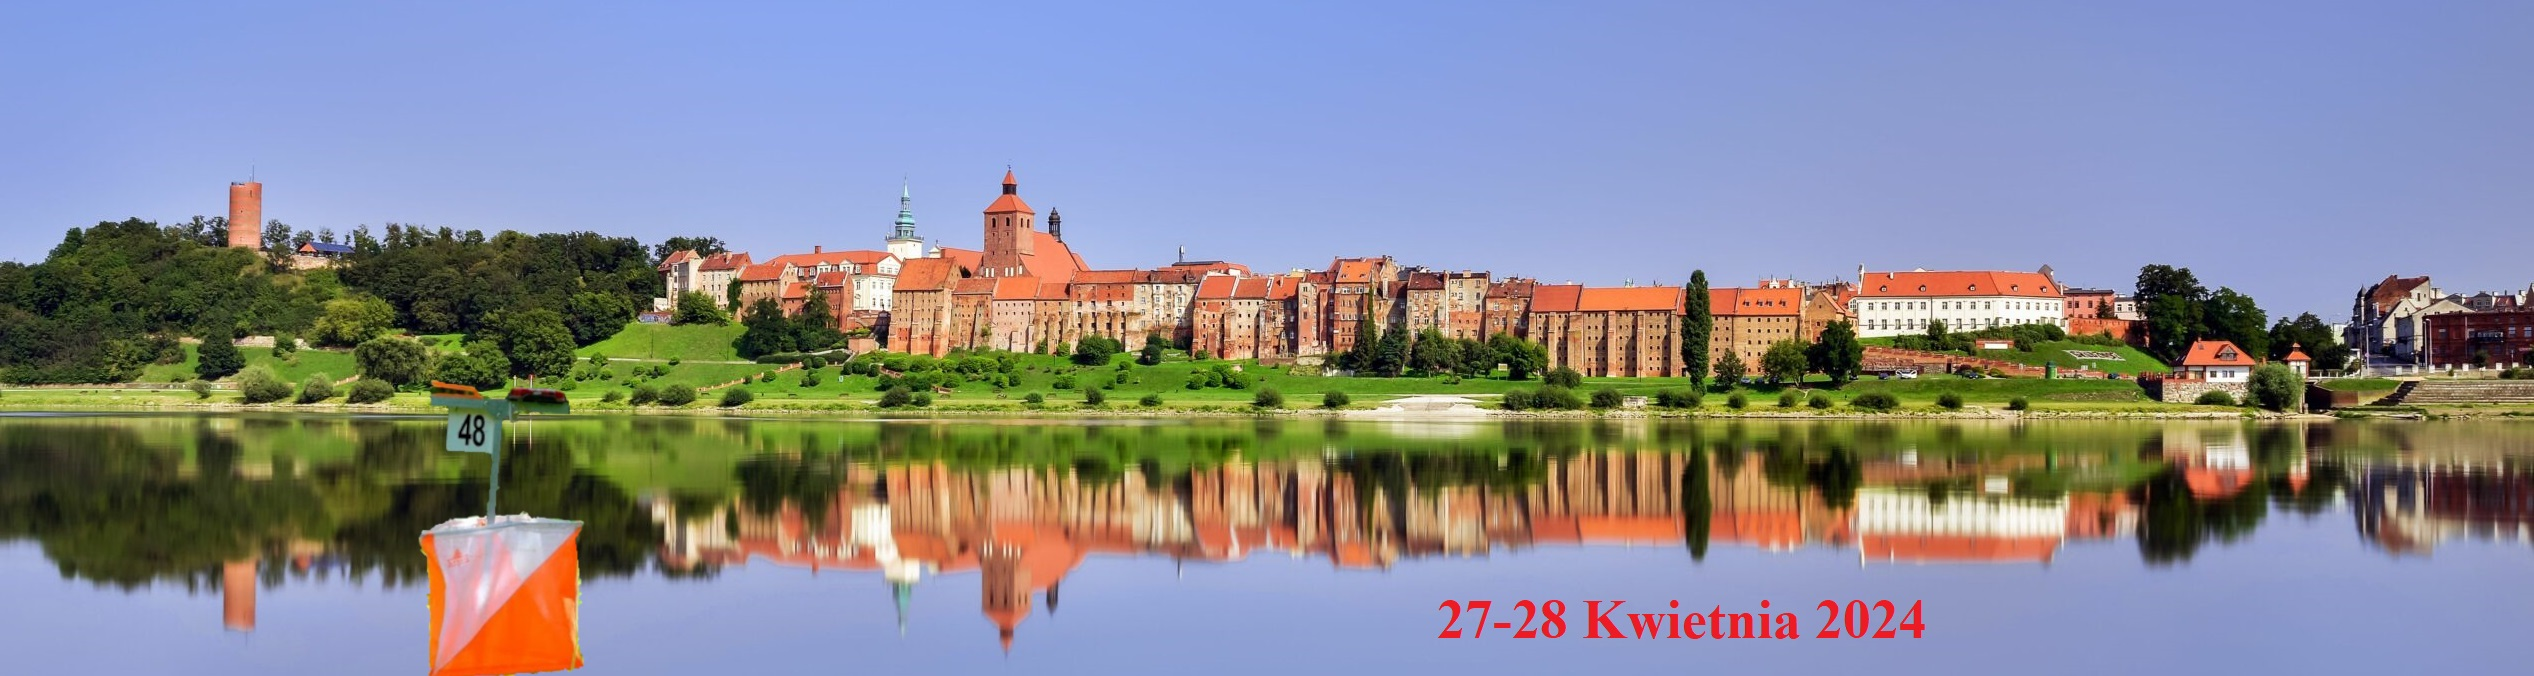
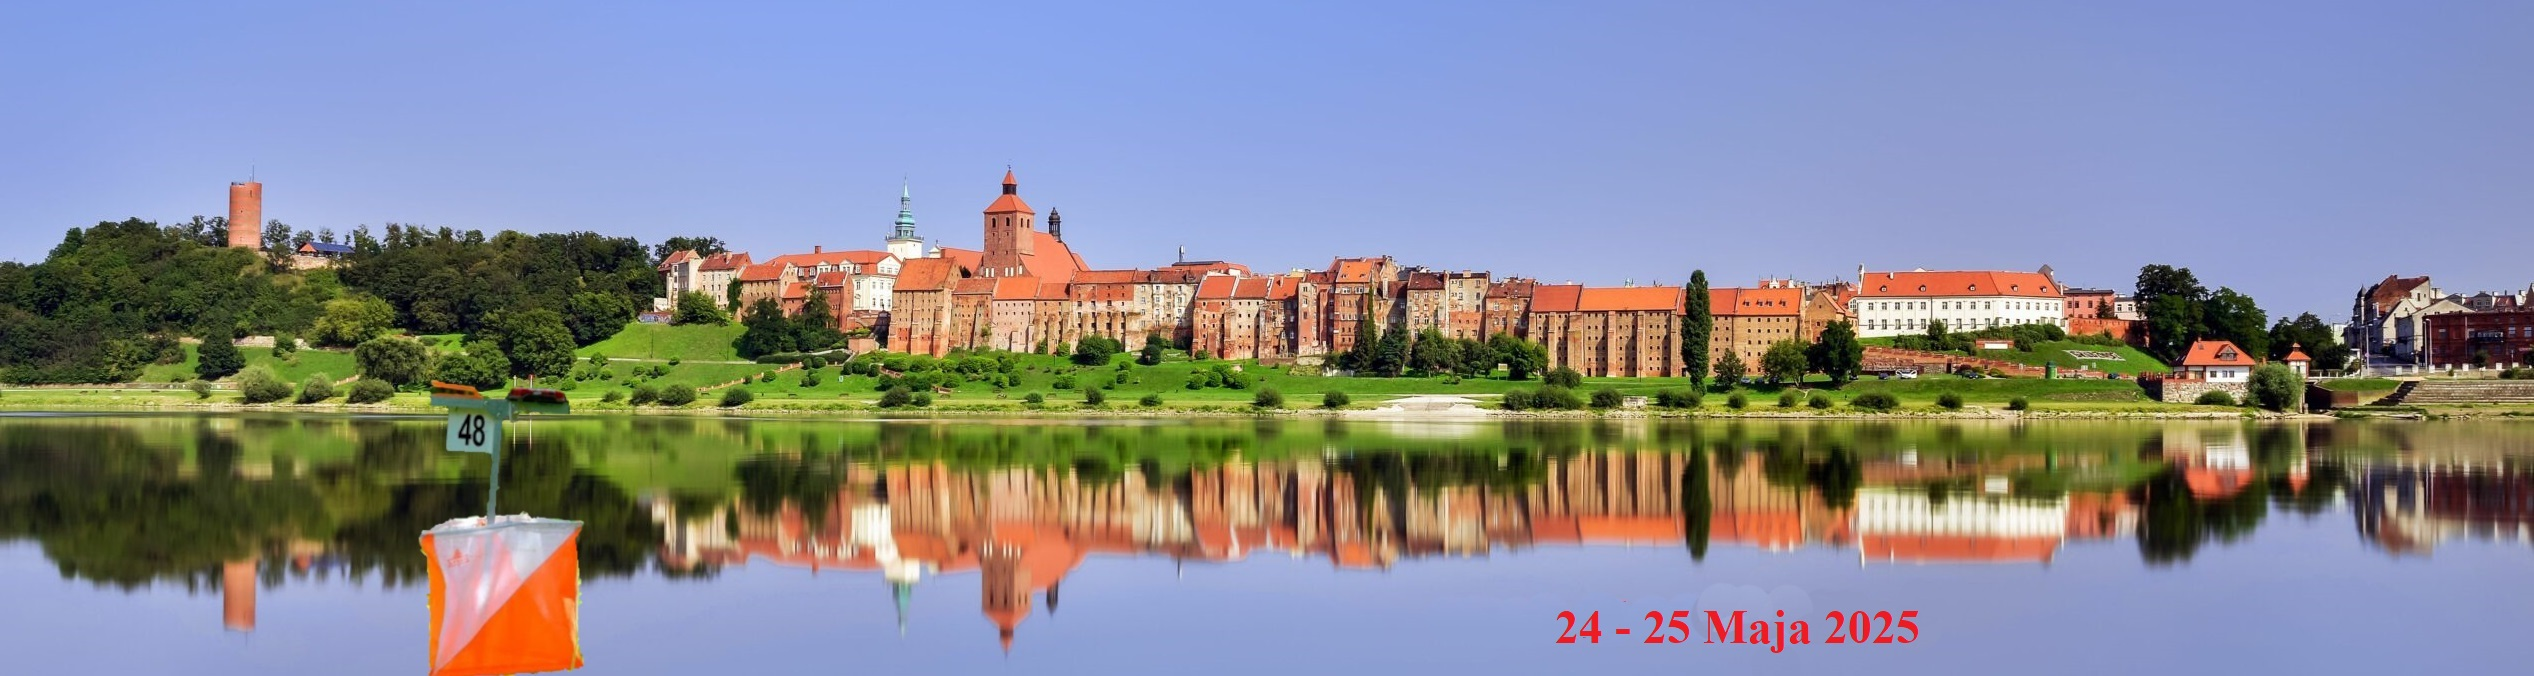
2025 update

Changed region(s): [[0.5612, 0.8698, 0.7794, 0.963]]

diff --git a/src/components/Header/Header.jsx b/src/components/Header/Header.jsx
@@ -14,7 +14,7 @@ const Header = () => {
 
                 <div className={css.navHeader}>
                     <div className={css.titleLink } to='/'>
-                        <Link to='/'>Puchar Wisły 2024</Link>
+                        <Link to='/'>Puchar Wisły 2025</Link>
                     </div>
                 </div>
                 
